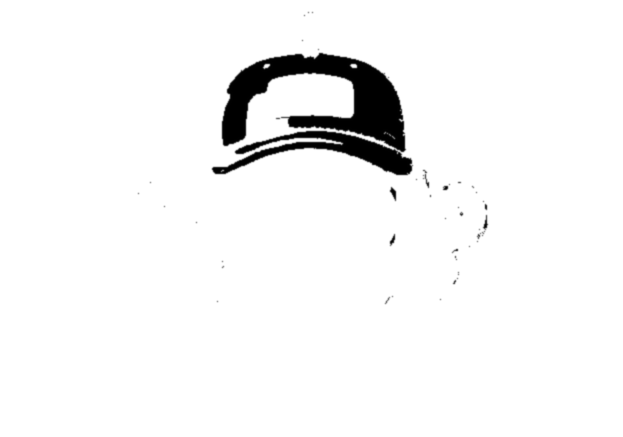
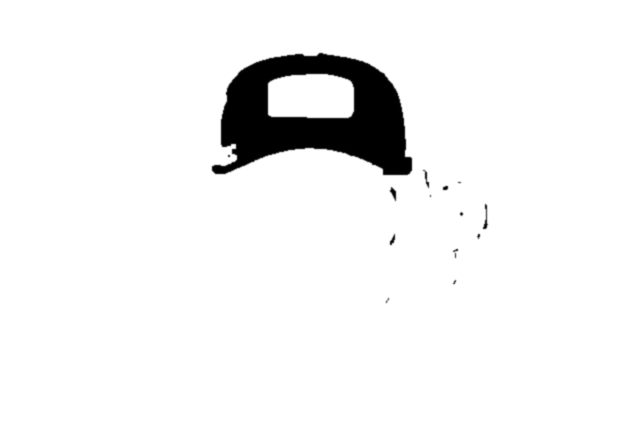
GlazyArray's flair: a stronger tint on fabric and gems; the trail cap's areas filled (#197)
- looks.json "flairK": how strongly a look's flair takes the Note's colours.
  Brass (grad cap, bike helmet, goggles) keeps the gentle 45%; fabric, gems and
  painted parts (16 looks) take 80%, so a Note's colours really show.
  narrator.css/js, the share cards (gacard.py) and the Studio's Social cards use it.
- The trail cap's two areas are solid now: the cap fabric (its highlights too)
  takes the first colour, the whole logo patch the second.

Claude-Session: https://claude.ai/code/session_0195hiXiVZY5DpQ2CCYEr2vL

diff --git a/studio/assets/social.js b/studio/assets/social.js
@@ -103,7 +103,7 @@
   // As her share card (field/tools/gacard.py) and her Listen bar: the Note's backdrop with its colours over it, the
   // site's nameplate with the title, the glass player, and her at her desk in the Note's look, its flair tinted 45%
   // in the Note's two colours. Built once per size from the same parts the site stacks.
-  var NA = '/assets/narrator/', gaParts = null, gaCards = {};
+  var NA = '/assets/narrator/', gaParts = null, gaCards = {}, gaK = .45;   // gaK: how strongly her flair takes the colours (looks.json flairK)
   function pic(u) { return new Promise(function (ok) { var i = new Image(); i.onload = function () { ok(i); }; i.onerror = function () { ok(null); }; i.src = u; }); }
   function gaStyle() {   // her look and backdrop on this Note, as the site picks them: its own, else its categories'
     var kt = { ride: 'ride', hike: 'hike', forage: 'foraging', make: 'mini-cast' };
@@ -125,6 +125,7 @@
     return (gaParts = gaStyle().then(function (st) {
       var v = st.look && st.look.v ? '?r=' + st.look.v : '', stem = st.look ? NA + 'looks/' + st.look.file.replace(/\.[a-z]+$/, '') + '.flair-' : '';
       var fl = st.look ? (st.look.flair || '') : '';
+      gaK = st.look && st.look.flairK ? st.look.flairK : .45;
       return Promise.all([st.look ? pic(NA + 'looks/' + st.look.file + v) : pic(NA + 'head-base.webp'), pic(NA + 'head-iris.webp'), pic(NA + 'head-lens.png'), pic(NA + 'head-shine.webp'),
         pic(NA + 'head-jaw-sides.webp'), pic(NA + 'head-jaw.webp'), pic(NA + 'kit/rest-body.webp'), pic(NA + 'desk.jpg'),
         st.bd ? pic(NA + 'backdrops/' + st.bd.file + (st.bd.v ? '?r=' + st.bd.v : '')) : Promise.resolve(null),
@@ -143,7 +144,7 @@
     if (p) [P[9], P[10]].forEach(function (mk, k) {
       if (!mk) return;
       var t = canvas(W, H), tg = t.getContext('2d'); tg.drawImage(mk, 0, 0, W, H); tg.globalCompositeOperation = 'source-in'; tg.fillStyle = p[k]; tg.fillRect(0, 0, W, H);
-      g.save(); g.globalCompositeOperation = 'color'; g.globalAlpha = .45; g.drawImage(t, 0, 0); g.restore();
+      g.save(); g.globalCompositeOperation = 'color'; g.globalAlpha = gaK; g.drawImage(t, 0, 0); g.restore();
     });
     var e = canvas(W, H), eg = e.getContext('2d');
     if (P[1]) eg.drawImage(P[1], 0, 0, W, H); if (P[2]) { eg.globalCompositeOperation = 'destination-in'; eg.drawImage(P[2], 0, 0, W, H); }

diff --git a/index.html b/index.html
@@ -24,7 +24,7 @@
 <link rel="stylesheet" href="css/play-inline.css?v=1794700000">
 <link rel="stylesheet" href="css/logo.css?v=11">
 <link rel="stylesheet" href="css/lake.css?v=1">
-<link rel="stylesheet" href="css/narrator.css?v=29">
+<link rel="stylesheet" href="css/narrator.css?v=30">
 <script>/* The lake closed by the link (nlake) or last time (js/lake.js): start with the clean top, no flash of the scene. */try{var w=decodeURIComponent(location.search).toLowerCase(),n=/(^|[?+&,;\s])nlake([+&,;\s=]|$)/.test(w),y=/(^|[?+&,;\s])ylake([+&,;\s=]|$)/.test(w);if(n||(!y&&localStorage.getItem("cg-lake")==="0"))document.documentElement.classList.add("lake-off")}catch(e){}</script>
 <link rel="stylesheet" href="css/footer.css?v=1793360000">
 <script>/* Night links (?night, ?nightmode, ?darkmode) open with the page already dark: no white flash, no fade. */
@@ -256,7 +256,7 @@ document.documentElement.classList.add('night-page');})();</script>
 <script src="js/audio-rules.js?v=1" defer></script>
 <script src="js/play-inline.js?v=1794600000" defer></script>
 <script src="js/lake.js?v=3" defer></script>
-<script src="js/narrator.js?v=36" defer></script>
+<script src="js/narrator.js?v=37" defer></script>
 <!-- About: the name in the header opens the résumé (about/) as a modal. -->
 <script src="js/about.js?v=1793460000" defer></script>
 <!-- Footer: chipmunks, trail log (waits until the footer is near the screen). -->

diff --git a/js/narrator.js b/js/narrator.js
@@ -63,12 +63,13 @@
   });
   function src(l) { return l && l.file ? A + 'looks/' + l.file + V + (l.v ? '.' + l.v : '') : CURLS; }   // v: a look replaced in the Studio
   // her flair: the parts of a look that take the Note's palette (looks.json "flair": which masks it has, a and/or b;
-  // looks/<file>.flair-a.png), tinted in CSS (.nb-flair); a look without them just shows as it is
+  // looks/<file>.flair-a.png), tinted in CSS (.nb-flair) at its flairK strength (45% unless it says); a look without them just shows as it is
   function flair(nb, l) {
     var stem = l && l.file ? A + 'looks/' + l.file.replace(/\.[a-z]+$/, '') + '.flair-' : '';
     nb.querySelectorAll('.nb-flair').forEach(function (f) {
       var k = f.getAttribute('data-k'), on = !!stem && (l.flair || '').indexOf(k) >= 0;
       f.style.setProperty('--fm', on ? 'url(' + stem + k + '.png' + V + (l.v ? '.' + l.v : '') + ')' : 'none'); f.hidden = !on;
+      f.style.setProperty('--fk', l && l.flairK ? l.flairK : .45);   // how strongly: a gentle 45% on brass, more on fabric and gems (looks.json flairK)
     });
   }
   function put(nb, l) {

diff --git a/css/narrator.css b/css/narrator.css
@@ -123,7 +123,7 @@ section.listen.has-bd::before{z-index:1}
 /* THE NOTE'S PALETTE (data-palette on the bar: two accent colours from its hero, --ga1 and --ga2). Her flair: the parts
    of whatever look she wears that take it (narrator.js flair(): a mask per colour), tinted with a "color" blend at 45% (a tint over the original, not a repaint) so
    the brass, folds and shading show through; then the glass card, its seek bar and Play, and the backdrop's shade */
-.nb-flair{position:absolute;inset:0;display:block;mix-blend-mode:color;opacity:.45;background:var(--ga1,transparent);pointer-events:none;
+.nb-flair{position:absolute;inset:0;display:block;mix-blend-mode:color;opacity:var(--fk,.45);background:var(--ga1,transparent);pointer-events:none;
   -webkit-mask:var(--fm) 0 0/100% 100% no-repeat;mask:var(--fm) 0 0/100% 100% no-repeat}
 .nb-flair[data-k="b"]{background:var(--ga2,transparent)}
 .nb-flair[hidden]{display:none}

diff --git a/field/tools/gacard.py b/field/tools/gacard.py
@@ -64,7 +64,7 @@ def head(look, pal):
         stem = look['file'].rsplit('.', 1)[0]
         for k, c in zip('ab', pal):
             if k not in (look.get('flair') or ''): continue
-            m = rgba(f'looks/{stem}.flair-{k}.png')[..., 3:] * .45
+            m = rgba(f'looks/{stem}.flair-{k}.png')[..., 3:] * float(look.get('flairK', .45))   # its strength: 45% on brass, more on fabric
             out[..., :3] = out[..., :3] * (1 - m) + color_blend(out[..., :3], hexrgb(c)) * m
     eye = rgba('head-iris.webp'); eye[..., 3:] *= rgba('head-lens.png')[..., 3:]
     for lay in (eye, rgba('head-shine.webp'), rgba('head-jaw-sides.webp'), rgba('head-jaw.webp')): over(out, lay)

diff --git a/studio/index.php b/studio/index.php
@@ -158,7 +158,7 @@ $alt = 'The Studio by ' . $tod . ': a brass STUDIO panel with its day/night dial
 <script src="assets/track.js?v=<?= STUDIO_VERSION ?>-3"></script>
 <script src="assets/hdr.js?v=<?= STUDIO_VERSION ?>-2"></script>
 <script src="../js/route-view.js?v=<?= STUDIO_VERSION ?>-4"></script>
-<script src="assets/social.js?v=<?= STUDIO_VERSION ?>-3"></script>
+<script src="assets/social.js?v=<?= STUDIO_VERSION ?>-4"></script>
 <script src="assets/look.js?v=<?= STUDIO_VERSION ?>-7"></script>
 <script src="assets/studio.js?v=<?= STUDIO_VERSION ?>-55"></script>
 <?php endif; ?>
